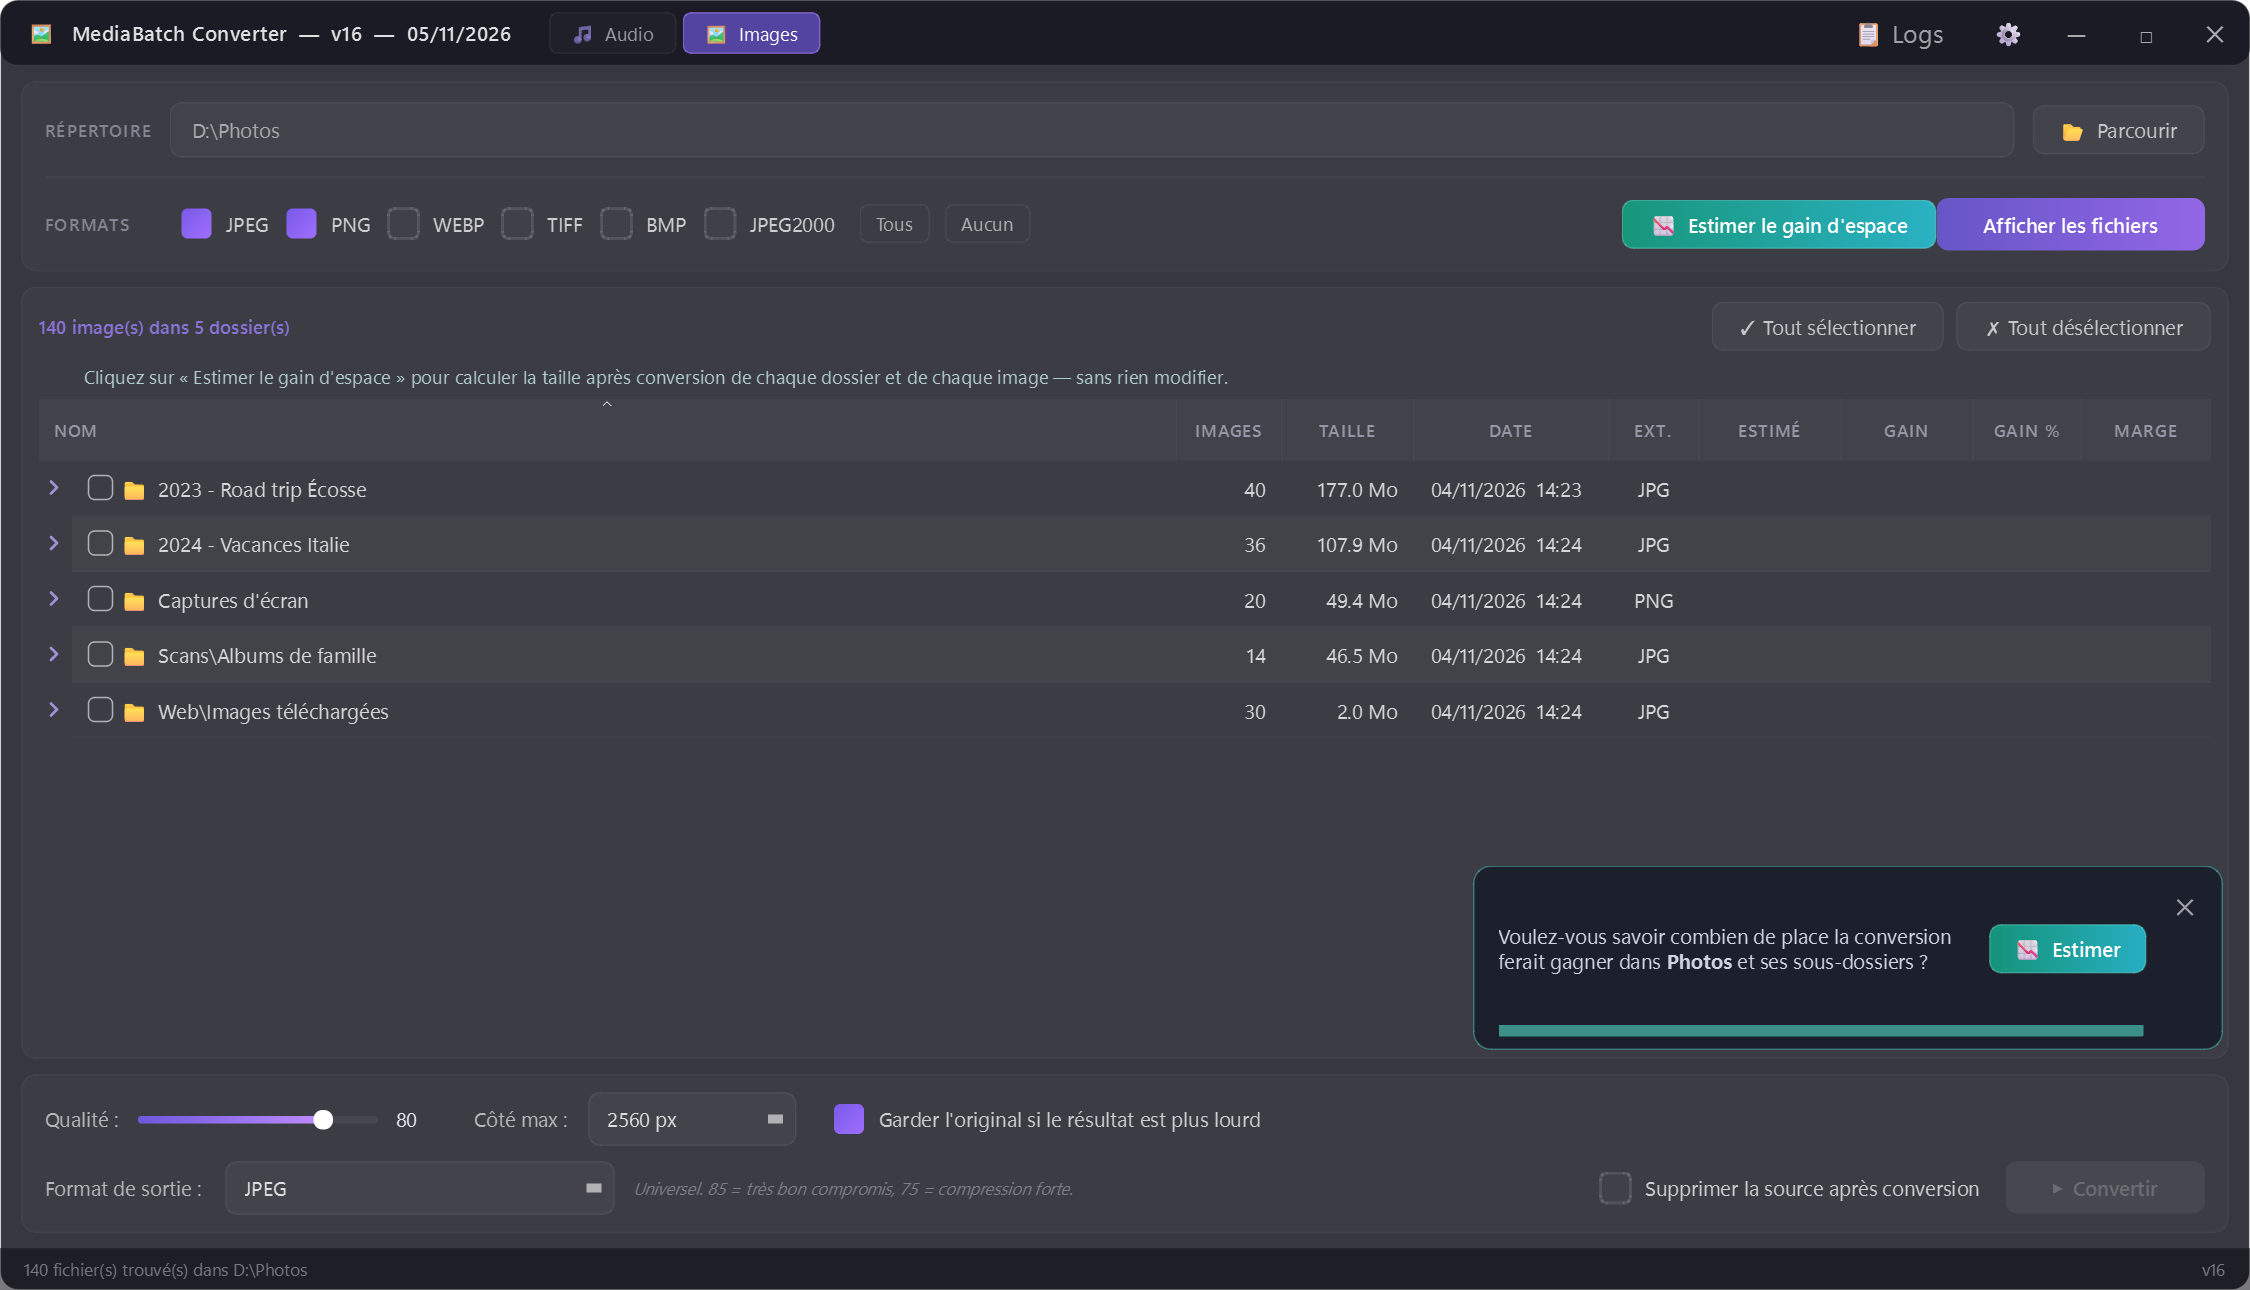
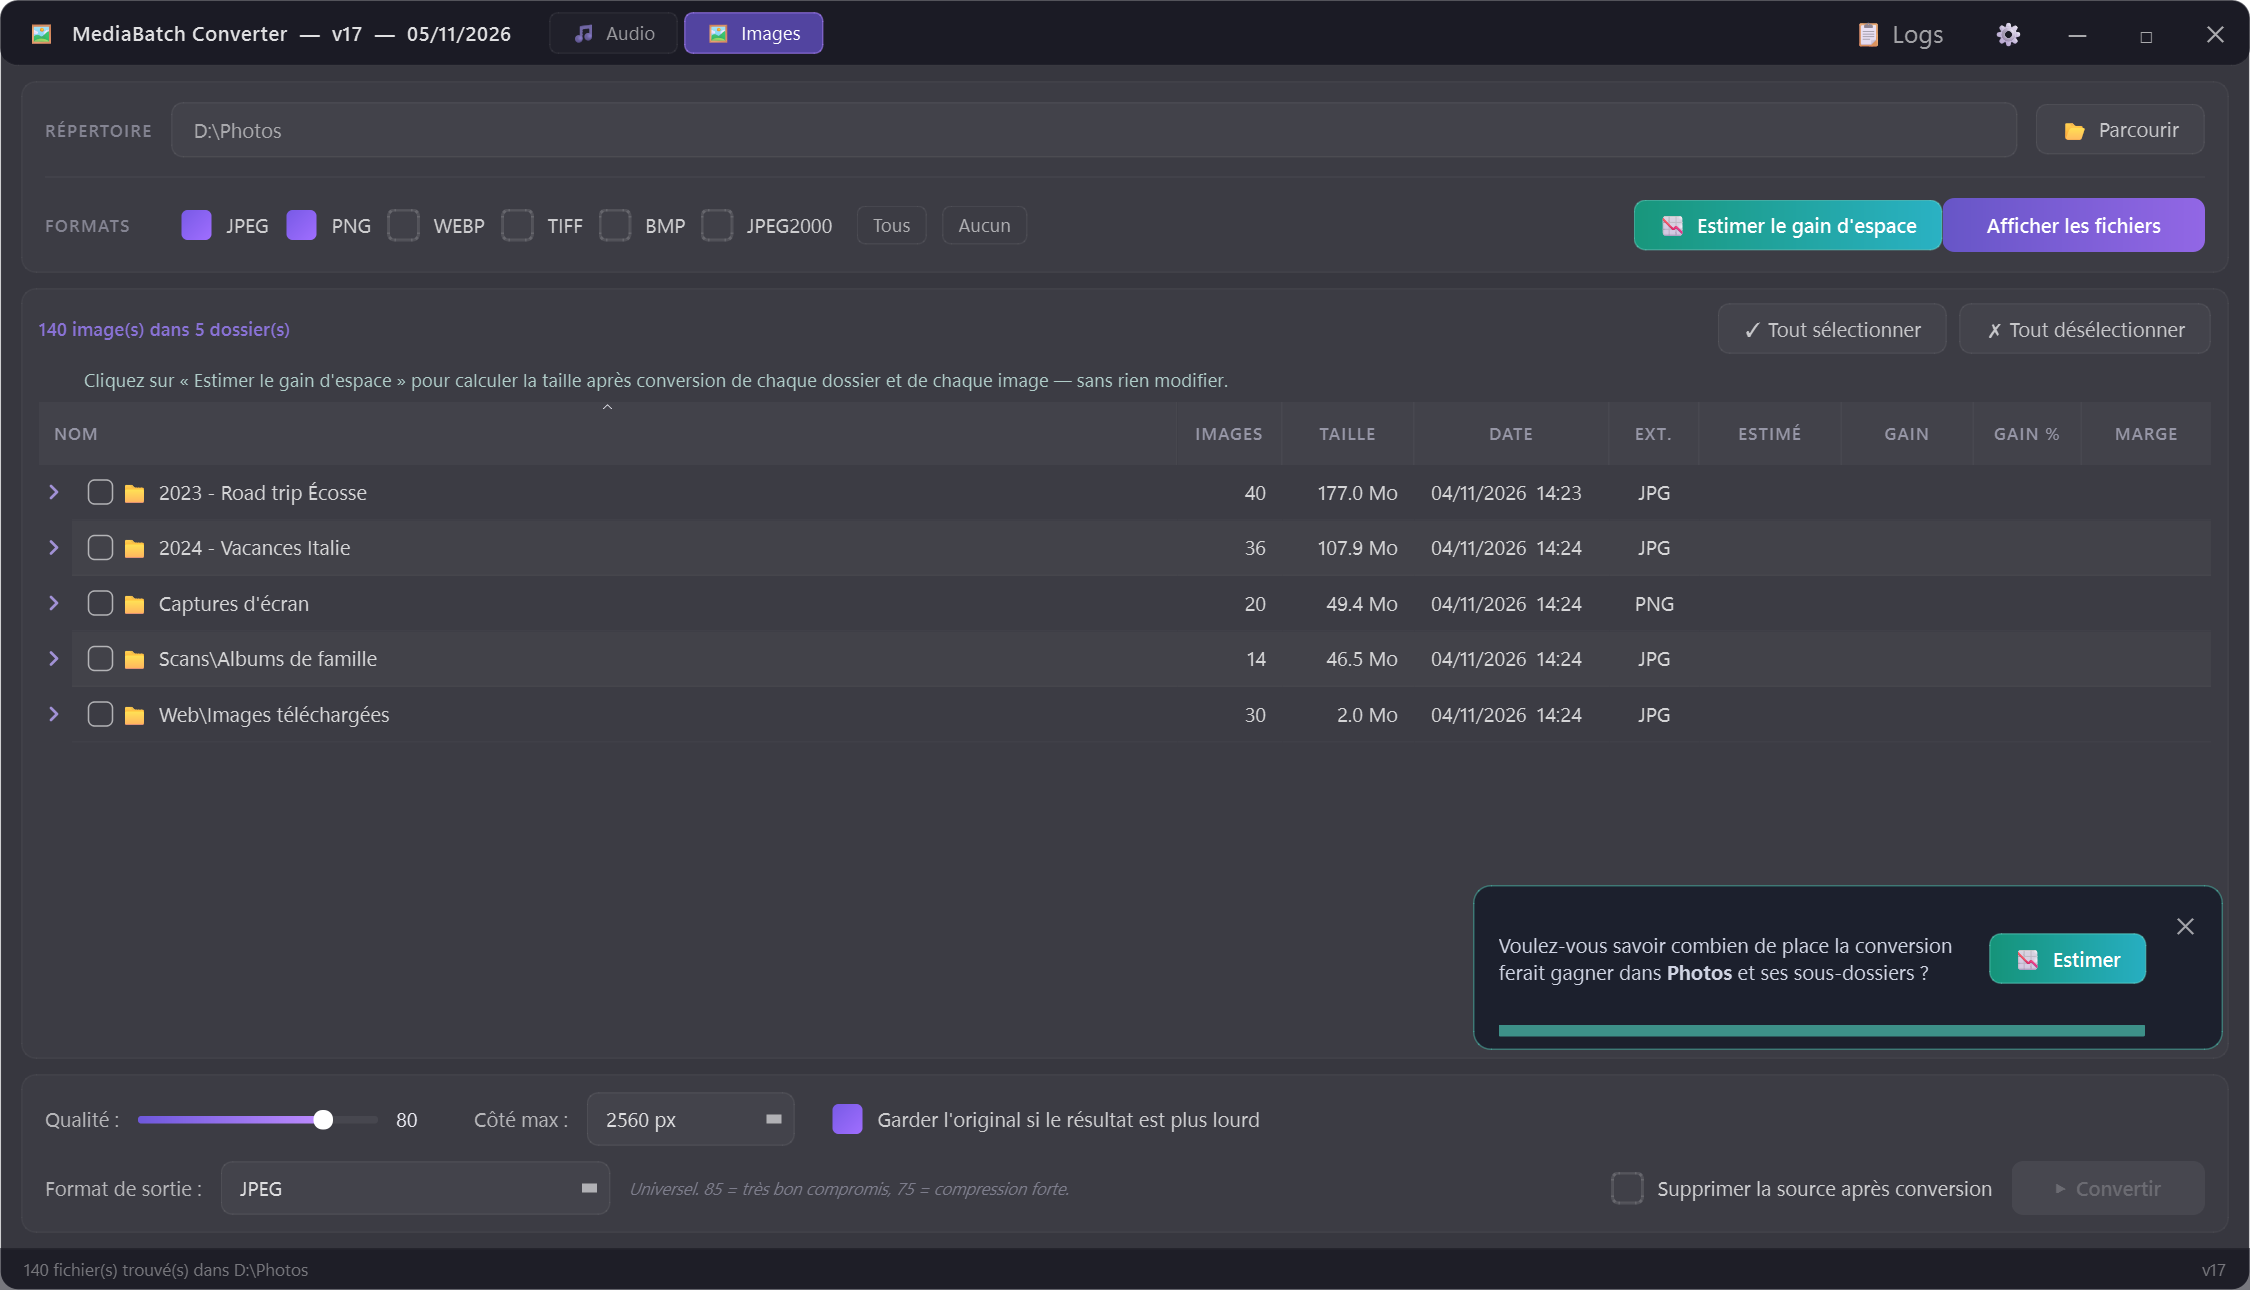
v17: adaptive header reading for large homogeneous folders
- Folders > 300 images: read 300 headers in a spread order (van der
  Corput over files sorted by type and size); if JPEG quality levels show
  a homogeneous folder (<= 8 levels, >= 95 % JPEG), extrapolate the rest
  from file size, reading more headers while the extrapolation error is
  above 3 %; heterogeneous folders are read in full as before
- Estimate margin includes the header-sampling error; per-file results
  flag extrapolated images; tooltips explain it
- Progress counters announce headers to read as they are planned
- Validated against full conversions (camera folders within 1-2 %)

diff --git a/core/image_estimator.py b/core/image_estimator.py
@@ -11,6 +11,12 @@ Principe (calibré sur des dossiers réels) :
      Un JPEG déjà très compressé ne gagne presque rien, un JPEG « qualité
      maximale » fond : ce critère explique ~90 % de l'écart entre fichiers.
   4. Tant que la marge d'erreur reste large, on ajoute des échantillons.
+
+Gros dossiers (> HEADER_CAP images) : lire chaque en-tête coûte un accès
+disque (~10–50 ms sur un disque dur externe). On ne lit alors que HEADER_CAP
+en-têtes, choisis régulièrement par type et par taille, on estime ce
+sous-ensemble comme ci-dessus, puis on extrapole aux autres fichiers selon
+leur taille ; la marge tient compte de cet échantillonnage supplémentaire.
 """
 
 import math
@@ -36,6 +42,12 @@ TARGET_MARGIN   = 0.08      # marge visée (±8 %) avant d'arrêter l'échantill
 # Le modèle n'est pas parfait : marge statistique × 1.5, et jamais sous ±5 %
 MARGIN_SAFETY   = 1.5
 MARGIN_FLOOR    = 0.05
+HEADER_CAP      = 300       # au-delà, en-têtes lus d'abord sur un échantillon
+HEADER_TARGET   = 0.03      # erreur d'extrapolation tolérée avant de lire plus d'en-têtes
+# Extrapolation réservée aux dossiers homogènes (photos d'un même appareil :
+# 1 à 12 niveaux de qualité JPEG ; images téléchargées : 30 à 60)
+HOMOGENEOUS_MAX_LEVELS = 8
+HOMOGENEOUS_MIN_JPEG   = 0.95
 
 _lock         = threading.Lock()
 _header_cache: Dict[Tuple[str, float, int], Optional["_Header"]] = {}
@@ -56,9 +68,11 @@ class Estimate:
     est_bytes: int
     n_samples: int
     margin:    float          # demi-largeur relative d'un intervalle à ~90 %
-    # Par fichier, dans l'ordre de la liste fournie : (octets estimés, mesuré ?)
-    # « mesuré » = l'image fait partie des conversions d'essai
-    per_file:  Optional[List[Tuple[int, bool]]] = None
+    # Par fichier, dans l'ordre de la liste fournie : (octets estimés, mesuré)
+    # mesuré : True = conversion d'essai, False = prédit d'après l'en-tête,
+    # None = extrapolé d'après la taille (en-tête non lu, gros dossier)
+    per_file:  Optional[List[Tuple[int, Optional[bool]]]] = None
+    headers_read: int = 0
 
     @property
     def exact(self) -> bool:
@@ -177,6 +191,32 @@ class _Stratum:
         return est, (rest ** 2) * var_r / n * (1 - n / N)
 
 
+def _family(fi: FileInfo) -> str:
+    return "jpeg" if fi.extension in ("jpg", "jpeg", "jfif") else fi.extension
+
+
+def _header_cached(fi: FileInfo) -> bool:
+    with _lock:
+        return (fi.path, fi.date_created, fi.size) in _header_cache
+
+
+def _spread_order(n: int) -> List[int]:
+    """
+    Permutation de 0..n-1 dont chaque préfixe est réparti uniformément
+    (suite de van der Corput) : lire les k premiers = un échantillon régulier,
+    et en lire plus ne fait que le compléter.
+    """
+    m = max(1, (n - 1).bit_length())
+    seen, out = set(), []
+    for k in range(1 << m):
+        rev = int(format(k, f"0{m}b")[::-1], 2)
+        pos = rev * n >> m
+        if pos not in seen:
+            seen.add(pos)
+            out.append(pos)
+    return out
+
+
 def estimate_files(
     files:          List[FileInfo],
     out_fmt:        Dict[str, Any],
@@ -186,24 +226,125 @@ def estimate_files(
     executor=None,
     cancelled:      Callable[[], bool] = lambda: False,
     max_samples:    int = MAX_SAMPLES,
-    on_progress:    Optional[Callable[[str], None]] = None,
+    on_progress:    Optional[Callable[[str, int], None]] = None,
+    header_cap:     Optional[int] = HEADER_CAP,
 ) -> Optional[Estimate]:
     """
     Estimation du poids total après conversion. None si annulé ou vide.
-    *on_progress("header" | "sample")* est appelé à chaque en-tête lu et à
-    chaque conversion d'essai (affichage de l'activité).
+    *on_progress(kind, n)* : "plan" = n en-têtes de plus à lire, "header" =
+    un en-tête lu, "sample" = une conversion d'essai (affichage de l'activité).
+    *header_cap* : en-têtes lus d'abord sur un échantillon de cette taille,
+    complété tant que le dossier s'avère hétérogène (None = tous).
     """
+    tick = on_progress or (lambda _kind, _n=1: None)
+    args = (out_fmt, quality, max_side, keep_if_larger, executor, cancelled,
+            max_samples, tick)
+    n_all = len(files)
+    if not header_cap or n_all <= header_cap:
+        tick("plan", sum(not _header_cached(f) for f in files))
+        return _estimate_all(files, *args)
+
+    # Ordre de lecture : fichiers triés par (type, taille), parcourus de façon
+    # à ce que chaque tranche couvre tout l'éventail des tailles et des types
+    by_size = sorted(range(n_all), key=lambda i: (_family(files[i]), files[i].size))
+    order = [by_size[p] for p in _spread_order(n_all)]
+
+    planned = 0
+    h = header_cap
+
+    # Premier lot d'en-têtes : le dossier est-il assez homogène pour extrapoler ?
+    first = [files[i] for i in order[:h]]
+    planned = sum(not _header_cached(f) for f in first)
+    tick("plan", planned)
+    hdrs = [_header(f) for f in first] if not executor else list(executor.map(_header, first))
+    tick("header", planned)
+    if cancelled():
+        return None
+    q_levels = {round(math.log(x.q_avg), 3) for x in hdrs if x and x.q_avg}
+    jpeg_share = sum(1 for x in hdrs if x and x.q_avg) / len(first)
+    if len(q_levels) > HOMOGENEOUS_MAX_LEVELS or jpeg_share < HOMOGENEOUS_MIN_JPEG:
+        tick("plan", n_all - h)
+        return _estimate_all(files, *args)
+
+    while True:
+        sub_idx = order[:h]
+        sub = [files[i] for i in sub_idx]
+        new = sum(not _header_cached(f) for f in sub) - planned
+        if new > 0:
+            tick("plan", new)
+            planned += new
+        if h >= n_all:
+            # Dossier trop hétérogène pour extrapoler : tout est lu
+            return _estimate_all(files, *args)
+        est = _estimate_all(sub, *args)
+        if est is None:
+            return None
+
+        # Erreur due à l'échantillonnage des en-têtes (estimateur par ratio)
+        ratios = [v / fi.size for fi, (v, _m) in zip(sub, est.per_file) if fi.size]
+        se = 0.0
+        if len(ratios) > 1:
+            mean = sum(ratios) / len(ratios)
+            sd = math.sqrt(sum((r - mean) ** 2 for r in ratios) / (len(ratios) - 1))
+            if mean > 0:
+                se = sd / mean / math.sqrt(len(ratios)) * math.sqrt(1 - h / n_all)
+        header_err = MARGIN_SAFETY * 1.645 * se
+        if header_err <= HEADER_TARGET:
+            break
+        h = min(n_all, h * 2)           # hétérogène : on lit plus d'en-têtes
+
+    # Taux de compression par type, mesuré sur le sous-ensemble
+    fam_src: Dict[str, float] = defaultdict(float)
+    fam_est: Dict[str, float] = defaultdict(float)
+    for fi, (v, _m) in zip(sub, est.per_file):
+        fam_src[_family(fi)] += fi.size
+        fam_est[_family(fi)] += v
+    overall = est.est_bytes / est.src_bytes if est.src_bytes else 1.0
+
+    per_file: List[Optional[Tuple[int, Optional[bool]]]] = [None] * n_all
+    for i, pf in zip(sub_idx, est.per_file):
+        per_file[i] = pf
+    for i, fi in enumerate(files):
+        if per_file[i] is None:
+            f = _family(fi)
+            r = fam_est[f] / fam_src[f] if fam_src[f] else overall
+            per_file[i] = (int(fi.size * r), None)
+
+    return Estimate(
+        n_files   = n_all,
+        src_bytes = sum(f.size for f in files),
+        est_bytes = int(sum(v for v, _m in per_file)),
+        n_samples = est.n_samples,
+        margin    = max(MARGIN_FLOOR, math.sqrt(est.margin ** 2 + header_err ** 2)),
+        per_file  = per_file,
+        headers_read = len(sub),
+    )
+
+
+def _estimate_all(
+    files:          List[FileInfo],
+    out_fmt:        Dict[str, Any],
+    quality:        int,
+    max_side:       int,
+    keep_if_larger: bool,
+    executor,
+    cancelled:      Callable[[], bool],
+    max_samples:    int,
+    tick:           Callable[..., None],
+) -> Optional[Estimate]:
+    """Estimation en lisant l'en-tête de chaque fichier de *files*."""
     if not files:
         return None
-    tick = on_progress or (lambda _kind: None)
     run = (lambda fn, items: list(executor.map(fn, items))) if executor \
         else (lambda fn, items: [fn(it) for it in items])
 
     def read_header(fi):
         if cancelled():
             return None
+        cached = _header_cached(fi)
         h = _header(fi)
-        tick("header")
+        if not cached:
+            tick("header")
         return h
 
     headers = run(read_header, files)
@@ -294,6 +435,7 @@ def estimate_files(
         n_samples = n_done,
         margin    = margin,
         per_file  = per_file,
+        headers_read = len(files),
     )
 
 
@@ -340,7 +482,7 @@ class GroupEstimateThread(QThread):
         # Activité, lue par l'interface via snapshot() (simples compteurs)
         self._lock      = threading.Lock()
         self._phase     = "estimate"        # "estimate" → "done"
-        self._total     = sum(len(v) for v in groups.values())
+        self._total     = 0                 # en-têtes à lire (annoncés au fil de l'eau)
         self._headers   = 0                 # en-têtes lus
         self._samples   = 0                 # conversions d'essai faites
         self._current: Dict[str, int] = {}  # dossiers en cours → nb d'images
@@ -353,12 +495,14 @@ class GroupEstimateThread(QThread):
             return dict(phase=self._phase, total=self._total, headers=self._headers,
                         samples=self._samples, current=list(self._current))
 
-    def _on_progress(self, kind: str):
+    def _on_progress(self, kind: str, n: int = 1):
         with self._lock:
-            if kind == "header":
-                self._headers += 1
+            if kind == "plan":
+                self._total += n
+            elif kind == "header":
+                self._headers += n
             else:
-                self._samples += 1
+                self._samples += n
 
     def _estimate_folder(self, directory: str, files: List[FileInfo]):
         with self._lock:

diff --git a/ui/image_tree.py b/ui/image_tree.py
@@ -414,13 +414,18 @@ class ImageTreePanel(QWidget):
             self._fill(folder, est.src_bytes, est.est_bytes)
             folder.set(C_MARGIN, "exacte" if est.exact else f"± {est.margin * 100:.0f} %",
                        0 if est.exact else est.margin, _RIGHT)
-            folder.setToolTip(C_MARGIN, f"{est.n_samples} image(s) convertie(s) en test "
-                                        f"sur {est.n_files}, en mémoire")
+            tip = f"{est.n_samples} image(s) convertie(s) en test sur {est.n_files}, en mémoire"
+            if est.headers_read < est.n_files:
+                tip += (f"\nDossier volumineux et homogène : en-têtes lus sur "
+                        f"{est.headers_read} images, le reste extrapolé d'après la taille")
+            folder.setToolTip(C_MARGIN, tip)
         for (fi, it), (est_b, measured) in zip(items, est.per_file or []):
             self._fill(it, fi.size, est_b)
             it.set(C_MARGIN, "mesurée" if measured else "", 0 if measured else 1, _RIGHT)
             it.setToolTip(C_EST, "Mesurée par une conversion d'essai" if measured
-                          else "Prédite d'après la qualité et la taille du fichier")
+                          else "Prédite d'après la qualité et la taille du fichier"
+                          if measured is False
+                          else "Extrapolée d'après la taille (dossier volumineux)")
         tree.setSortingEnabled(True)
 
     @staticmethod

diff --git a/core/config.py b/core/config.py
@@ -2,7 +2,7 @@ import os
 import sys
 
 # !! IMPORTANT : incrémenter APP_VERSION à chaque modification du code !!
-APP_VERSION = 16
+APP_VERSION = 17
 APP_DATE = "05/11/2026"
 APP_TITLE = f"MediaBatch Converter  —  v{APP_VERSION}  —  {APP_DATE}"
 

diff --git a/main.py b/main.py
@@ -1,5 +1,5 @@
 """
-MediaBatch Converter — v16 — 05/11/2026
+MediaBatch Converter — v17 — 05/11/2026
 """
 
 import sys

diff --git a/README.md b/README.md
@@ -32,7 +32,7 @@ Switch between **🎵 Audio** and **🖼 Images** from the title bar (the app re
 
 Nothing is written to disk. The app reads the header of every image (dimensions and, for JPEGs, the quantization tables — i.e. the quality the file was originally saved at), converts a small sample in memory, fits a model of *compression ratio vs. original quality*, and extrapolates to every file. More samples are added until the margin is tight enough. On real photo folders the estimate lands within a few percent of the actual result; the displayed margin (`± x %`) is deliberately conservative.
 
-On a USB hard drive, analysing ~11,000 photos across 200 folders takes about 5 minutes (header reads dominate); it is much faster on an SSD, and results appear folder by folder.
+On a hard drive, reading every header costs one disk seek per file. For folders of more than 300 images, the app first reads 300 headers spread across the folder: if the folder is homogeneous (camera photos: a handful of JPEG quality levels), the rest is extrapolated from file sizes — reading more headers if needed — and only those images are marked as extrapolated. Heterogeneous folders (downloaded images with dozens of quality levels) are still read in full, to keep the estimate accurate. Results appear folder by folder.
 
 ## Features (Audio mode)
 
